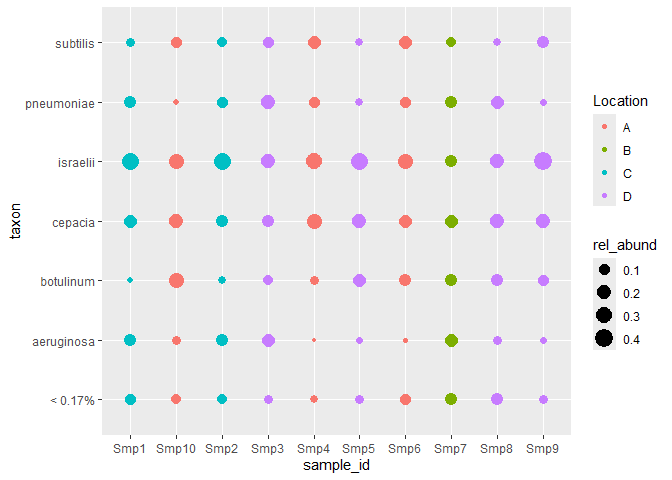
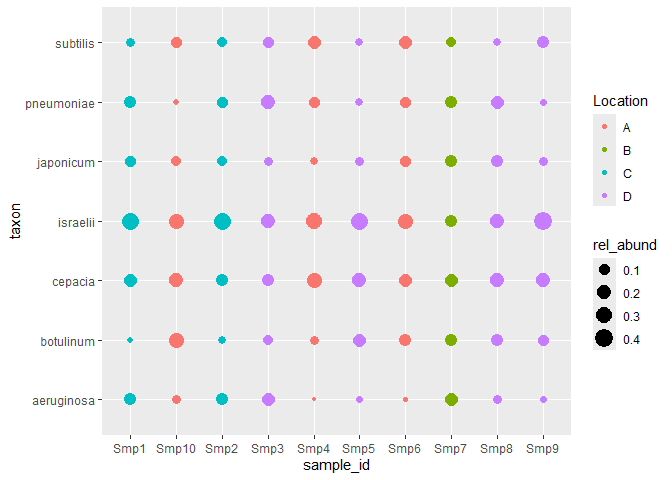
rmd

diff --git a/README.md b/README.md
@@ -8,12 +8,12 @@
 
 bubbler generates amplicon sequencing bubble and barplots to visualize
 community composition. This is a common visualization in microbial
-ecology studies, but current implementations are hard to customize,
-which has prompted me to develop bubbler. This package works alongside
-[phyloseq](https://github.com/joey711/phyloseq) and has been designed to
-work with data generated by [dada2](https://github.com/benjjneb/dada2).
-Future versions are planned to work with
-[qiime2](https://github.com/qiime2/qiime2) output.
+ecology studies, but current implementations are hard to deeply
+customize, which has prompted me to develop bubbler. This package works
+alongside [phyloseq](https://github.com/joey711/phyloseq) and has been
+designed to work with data generated by
+[dada2](https://github.com/benjjneb/dada2). Future versions are planned
+to work with [qiime2](https://github.com/qiime2/qiime2) output.
 
 Features
 
@@ -24,11 +24,11 @@ Features
 
 Future Features
 
-- Arrange taxa in ascending or descending order.
+- Arrange samples and taxa.
 - *Italicize* genus and species-level taxonomies.
 - Use brewer and viridis colourschemes
 - Generate global colourschemes, which are consistent between plots.
-- Import multiple file types
+- Import multiple file types:
   - raw tables
   - physeq objects
   - qiime2 artifacts
@@ -44,7 +44,16 @@ You can install the development version of bubbler from
 devtools::install_github("zjardyn/bubbler")
 ```
 
-## Example
+You will also need phyloseq, which can be installed with:
+
+``` r
+if(!requireNamespace("BiocManager")){
+  install.packages("BiocManager")
+}
+BiocManager::install("phyloseq")
+```
+
+## Sample-wise plots
 
 Lets start by making a barplot from a toy amplicon dataset. We will
 generate a relative abundance table, filter it at the taxonomic level of
@@ -94,14 +103,14 @@ and, if that value is less than 0.06, it is pooled.
 
 A bubbleplot is just a variation of a stacked-barplot. We will change
 some of the arguments to display everything from our relative abundance
-table. We inner_join d with our metadata to colour by Location.
+table. We inner_join d with some metadata to colour by Location.
 
 ``` r
 a <- rel_abund(physeq1)
 # change taxon_level to Species, don't subset samples
 b <- choose_taxa_level(a, taxon_level = "Species")
 
-threshold <- choose_n_taxa(b, 6)
+threshold <- choose_n_taxa(b, 12)
 d <- pool_taxa(b, threshold)
 
 d %>%
@@ -111,6 +120,24 @@ ggplot2::ggplot(ggplot2::aes(x = sample_id, y = taxon, size = rel_abund)) +
 ```
 
 <img src="man/figures/README-bubble-1.png" width="100%" />
+
+## Variable-wise plots
+
+If you have a variable of interest from your metadata which you would
+rather use as the x-axis, you can use rel_abund_var to specify it. You
+must also specify it in pool_taxa.
+
+``` r
+a <- rel_abund_var(physeq1, var = "Location")
+b <- choose_taxa_level(a, taxon_level = "Genus")
+threshold <- choose_n_taxa(b, 6)
+c <- pool_taxa(b, threshold, var = "Location")
+c %>%
+ggplot2::ggplot(ggplot2::aes(x = Location , y = rel_abund, fill = taxon)) +
+    ggplot2::geom_bar(position = "fill", stat = "identity")
+```
+
+<img src="man/figures/README-unnamed-chunk-3-1.png" width="100%" />
 
 You’ll still need to render `README.Rmd` regularly, to keep `README.md`
 up-to-date. `devtools::build_readme()` is handy for this.
